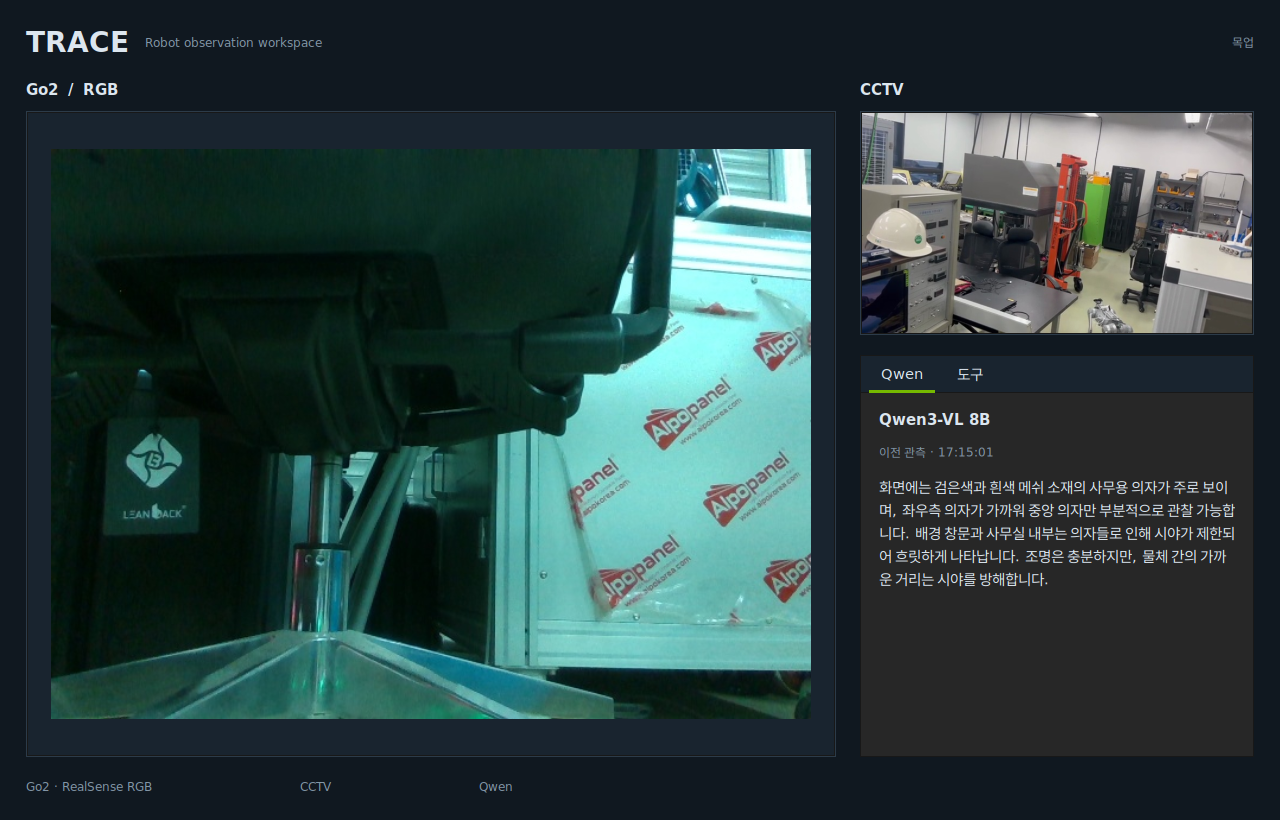
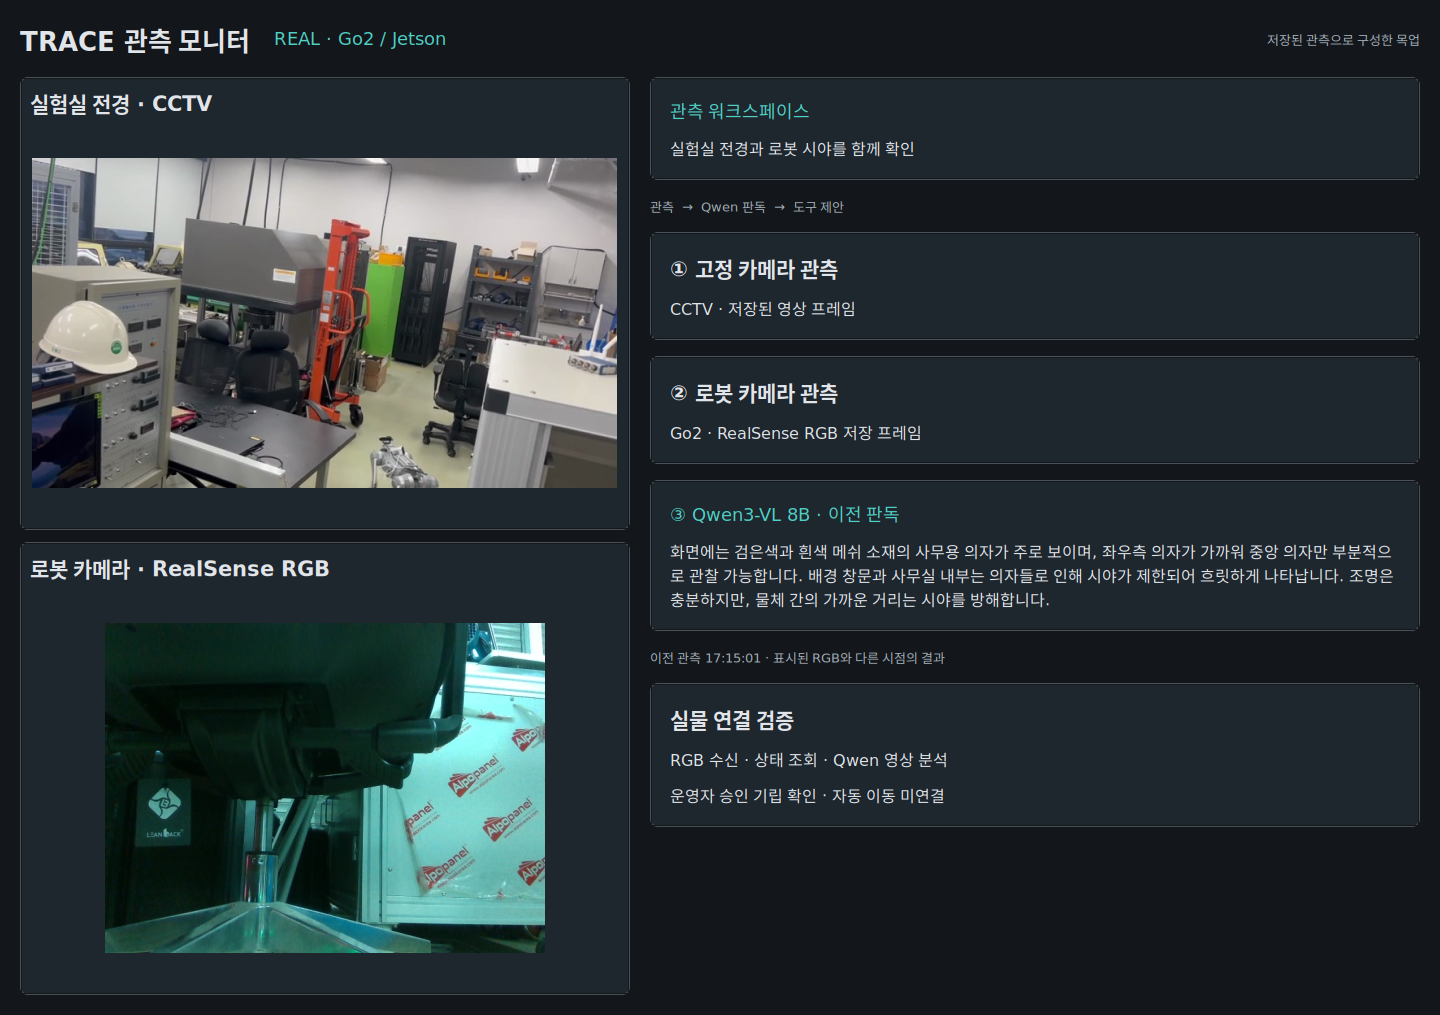
Match real hardware workspace to simulation monitor layout

diff --git a/scripts/go2_presentation_mockup.py b/scripts/go2_presentation_mockup.py
@@ -16,28 +16,36 @@ frame=cv2.rotate(frame,cv2.ROTATE_90_COUNTERCLOCKWISE)
 cv2.imwrite(str(OUT/'cctv.jpg'),frame)
 records=[json.loads(x) for x in (ROOT/'artifacts/go2/qwen-live.jsonl').read_text().splitlines()]
 record=next((x for x in reversed(records) if '의자' in x['response']),records[-1])
-window=Gtk.Window(title='TRACE · 관측 화면 목업');window.set_default_size(1280,820)
-css=Gtk.CssProvider();css.load_from_data(b'window {background:#101820;} label {color:#dce6ef;font-family:Sans;} .brand {font-size:28px;font-weight:bold;} .heading {font-size:15px;font-weight:bold;} .muted {color:#8396a7;font-size:12px;} frame {border:1px solid #2c3b49;background:#19242f;} notebook {background:#19242f;} textview,textview text {background:#19242f;color:#dce6ef;font-size:16px;}')
+window=Gtk.Window(title='TRACE · 실제 Go2 관측 모니터');window.set_default_size(1440,900)
+css=Gtk.CssProvider();css.load_from_data(b'window {background:#13171b;} label {color:#e1e5e9;font-family:Sans;font-size:16px;} .brand {font-size:26px;font-weight:bold;} .heading {font-size:21px;font-weight:bold;} .muted {color:#a4afb9;font-size:13px;} .accent {color:#4fd1c5;font-size:18px;} frame {border:1px solid #47515c;border-radius:8px;background:#1e262e;}')
 Gtk.StyleContext.add_provider_for_screen(Gdk.Screen.get_default(),css,Gtk.STYLE_PROVIDER_PRIORITY_APPLICATION)
-root=Gtk.Box(orientation=Gtk.Orientation.VERTICAL,spacing=22);root.set_border_width(26);window.add(root)
+root=Gtk.Box(orientation=Gtk.Orientation.VERTICAL,spacing=18);root.set_border_width(20);window.add(root)
 def label(text,style='heading'):
     widget=Gtk.Label(label=text);widget.set_xalign(0);widget.get_style_context().add_class(style);return widget
-header=Gtk.Box();header.pack_start(label('TRACE','brand'),False,False,0);header.pack_start(label('    Robot observation workspace','muted'),False,False,0);header.pack_end(label('목업','muted'),False,False,0);root.pack_start(header,False,False,0)
-row=Gtk.Box(spacing=24);root.pack_start(row,True,True,0)
-def panel(title,path,width,height):
-    box=Gtk.Box(orientation=Gtk.Orientation.VERTICAL,spacing=12);box.pack_start(label(title),False,False,0)
-    pix=GdkPixbuf.Pixbuf.new_from_file_at_scale(str(path),width,height,True)
-    frame=Gtk.Frame();image=Gtk.Image.new_from_pixbuf(pix);frame.add(image);box.pack_start(frame,True,True,0);return box
-left=panel('Go2  /  RGB',rgb,760,570);row.pack_start(left,True,True,0)
-right=Gtk.Box(orientation=Gtk.Orientation.VERTICAL,spacing=20);right.set_size_request(390,-1);row.pack_start(right,False,False,0)
-right.pack_start(panel('CCTV',OUT/'cctv.jpg',390,255),False,False,0)
-tabs=Gtk.Notebook();right.pack_start(tabs,True,True,0)
-box=Gtk.Box(orientation=Gtk.Orientation.VERTICAL,spacing=14);box.set_border_width(18)
-box.pack_start(label('Qwen3-VL 8B'),False,False,0)
-box.pack_start(label('이전 관측 · '+record['frame_received_local'],'muted'),False,False,0)
-text=Gtk.Label(label=record['response']);text.set_line_wrap(True);text.set_max_width_chars(30);text.set_xalign(0);text.set_yalign(0);box.pack_start(text,True,True,0)
-tabs.append_page(box,Gtk.Label(label='Qwen'));tabs.append_page(Gtk.Label(label=''),Gtk.Label(label='도구'))
-root.pack_start(label('Go2 · RealSense RGB                                     CCTV                                     Qwen','muted'),False,False,0)
+header=Gtk.Box();header.pack_start(label('TRACE 관측 모니터','brand'),False,False,0);header.pack_start(label('    REAL · Go2 / Jetson','accent'),False,False,0);header.pack_end(label('저장된 관측으로 구성한 목업','muted'),False,False,0);root.pack_start(header,False,False,0)
+row=Gtk.Box(spacing=20);root.pack_start(row,True,True,0)
+left=Gtk.Box(orientation=Gtk.Orientation.VERTICAL,spacing=12);left.set_size_request(610,-1);row.pack_start(left,False,False,0)
+def camera(title,path):
+    frame=Gtk.Frame();box=Gtk.Box(orientation=Gtk.Orientation.VERTICAL,spacing=8);box.set_border_width(8);frame.add(box)
+    box.pack_start(label(title),False,False,0)
+    pix=GdkPixbuf.Pixbuf.new_from_file_at_scale(str(path),590,330,True)
+    box.pack_start(Gtk.Image.new_from_pixbuf(pix),True,True,0);left.pack_start(frame,True,True,0)
+camera('실험실 전경 · CCTV',OUT/'cctv.jpg')
+camera('로봇 카메라 · RealSense RGB',rgb)
+right=Gtk.Box(orientation=Gtk.Orientation.VERTICAL,spacing=16);row.pack_start(right,True,True,0)
+def card(title,lines,accent=False):
+    frame=Gtk.Frame();box=Gtk.Box(orientation=Gtk.Orientation.VERTICAL,spacing=12);box.set_border_width(18);frame.add(box)
+    box.pack_start(label(title,'accent' if accent else 'heading'),False,False,0)
+    for text in lines:
+        item=Gtk.Label(label=text);item.set_xalign(0);item.set_line_wrap(True);item.set_max_width_chars(43);box.pack_start(item,False,False,0)
+    right.pack_start(frame,False,False,0)
+card('관측 워크스페이스',['실험실 전경과 로봇 시야를 함께 확인'],True)
+right.pack_start(label('관측  →  Qwen 판독  →  도구 제안','muted'),False,False,0)
+card('① 고정 카메라 관측',['CCTV · 저장된 영상 프레임'])
+card('② 로봇 카메라 관측',['Go2 · RealSense RGB 저장 프레임'])
+card('③ Qwen3-VL 8B · 이전 판독',[record['response']],True)
+right.pack_start(label('이전 관측 '+record['frame_received_local']+' · 표시된 RGB와 다른 시점의 결과','muted'),False,False,0)
+card('실물 연결 검증',['RGB 수신 · 상태 조회 · Qwen 영상 분석','운영자 승인 기립 확인 · 자동 이동 미연결'])
 window.connect('destroy',Gtk.main_quit);window.show_all()
 def capture():
     surface=cairo.ImageSurface(cairo.FORMAT_ARGB32,window.get_allocated_width(),window.get_allocated_height());window.draw(cairo.Context(surface));surface.write_to_png(str(OUT/'trace-mockup.png'))

diff --git a/reports/WORKLOG.md b/reports/WORKLOG.md
@@ -532,3 +532,7 @@ One-command live reproduction: `PYTHONPATH=src .venv/bin/python -u scripts/demo_
 - Added docs/assets/go2-real-workspace.png. Original recordings remain local and are not committed.
 - README now contrasts Simulation / Real hardware near the top, with the real workspace image and an explicit mockup caption. Existing simulation results, demo, architecture, and implementation guide preserved. Corrected stale claims that no hardware was connected and Qwen remained a placeholder.
 - Verified Python compilation, git diff whitespace, and visually checked the final screenshot. No additional robot commands sent.
+
+### Match simulation presentation layout
+- Real workspace now follows the simulation monitor arrangement: CCTV overview above RGB in the left column; observation, historical Qwen result, and verified hardware status cards on the right. Matched dark palette and teal accents.
+- Reused existing real source images and historical output without new robot commands or inference. Reviewed generated screenshot and compiled the composition script; replaced only the real-workspace README image.
